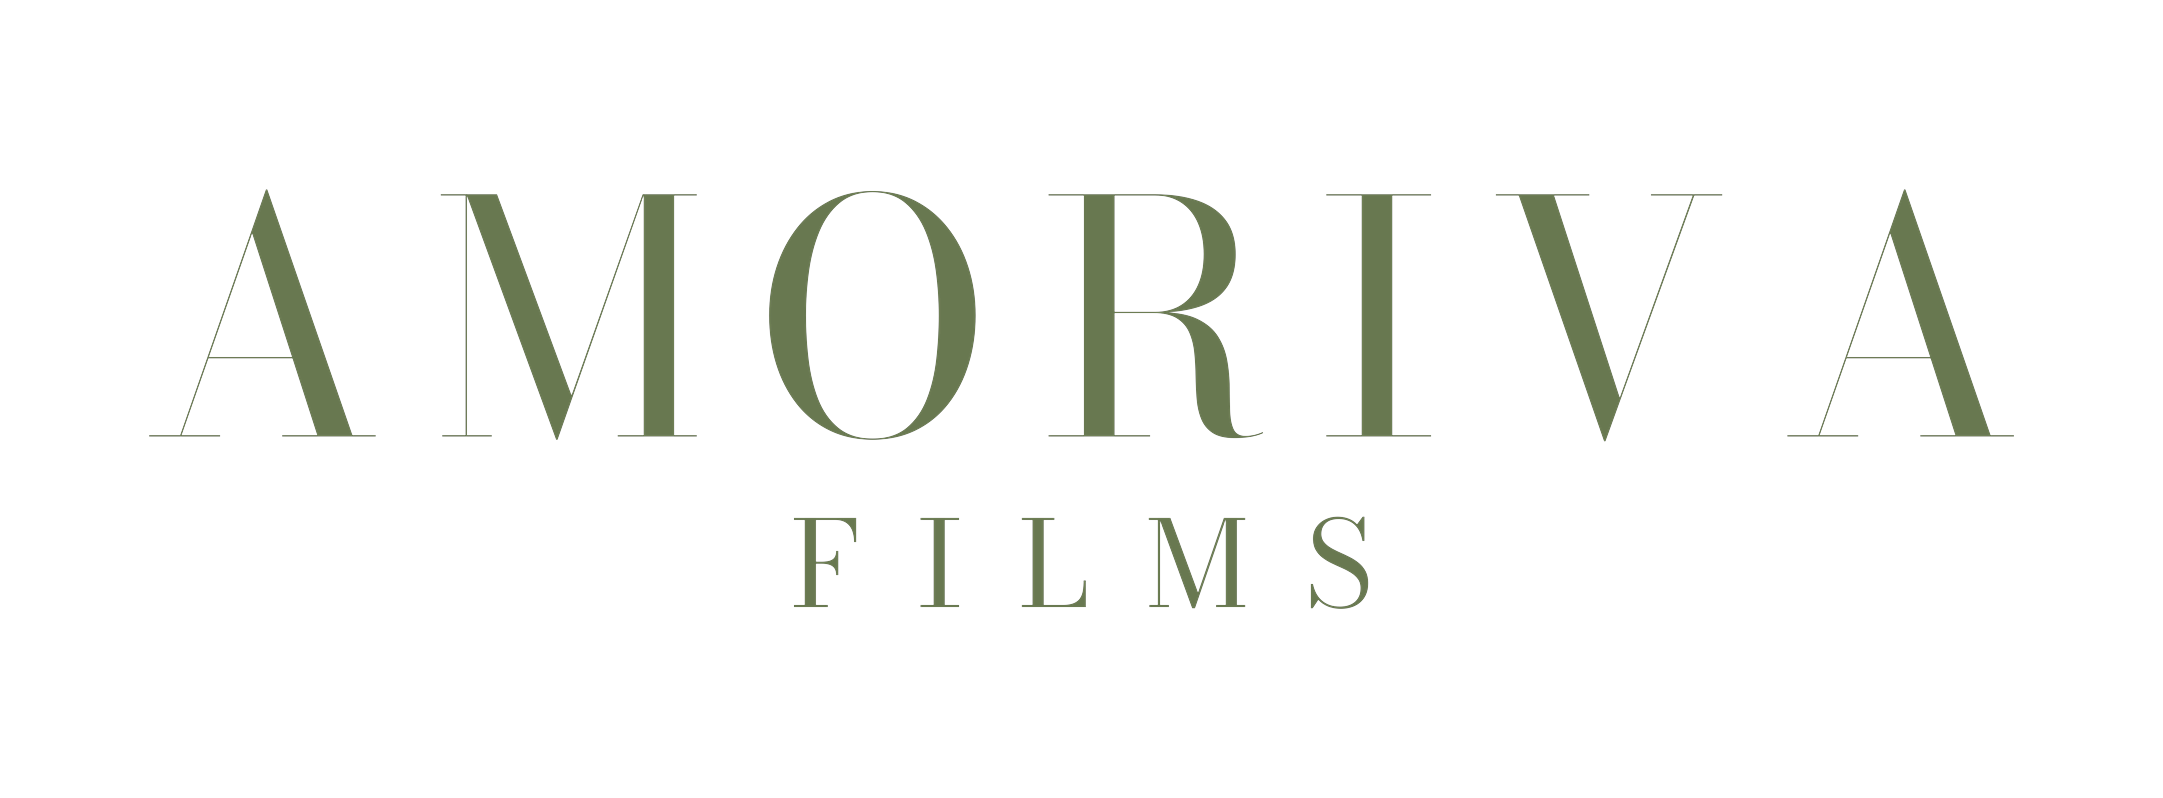
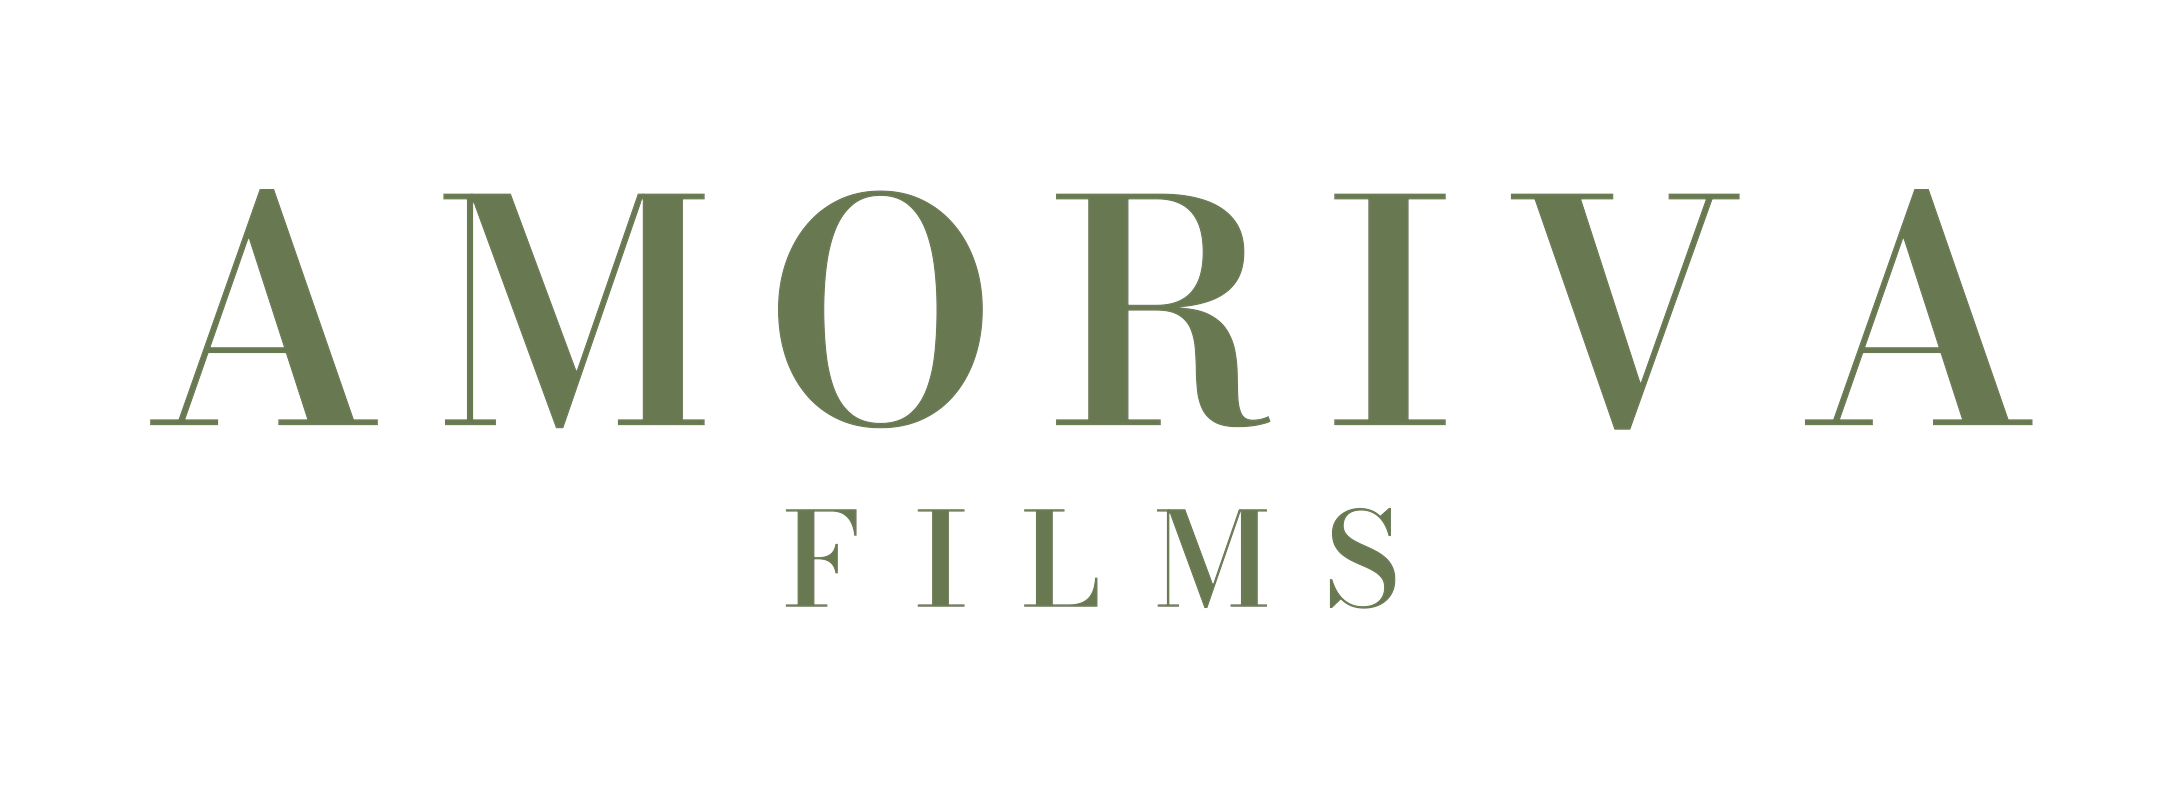
Wortmarke dicker setzen, sie war schlecht lesbar
Nevio: "mach es ein bisschen dicker, man kann es schlecht lesen".
Zwei Ursachen, beide nachgemessen:

1. Gewicht 400 mit automatischer optischer Groesse. Die Bodoni duennt
   ihre Haarstriche aus, je groesser die optische Groesse gewaehlt wird,
   und automatisch waehlt der Browser danach - bei 18 px Versalien blieb
   vom Querstrich des A fast nichts uebrig. Jetzt Gewicht 600 und opsz
   fest auf 11, der Lesetext-Schnitt mit den kraeftigsten Strichen.
   Dieselbe Falle wie bei den Schrittziffern einen Tag vorher.

2. FILMS stand auf 82 Prozent Deckung. Gemessen auf dem hellen Papier:
   3,02 zu 1 bei 6,8 px. Die Deckung ist raus, beide Zeilen liegen jetzt
   bei 4,62 zu 1, und FILMS waechst von 0.2 auf 0.23 der Markenhoehe.
   Der Groessenunterschied trennt die Zeilen deutlich genug.

Die Datei fuer die Suchmaschinen-Daten ist mit demselben Gewicht neu
gesetzt, sonst laufen Datei und Satz auseinander. Dabei aufgefallen:
scripts/marke.py gab das Gewicht beim Aufruf fest mit, ein Ueberschreiben
von aussen lief wirkungslos durch - jetzt steht es in der Funktion.

diff --git a/components/Wortmarke.jsx b/components/Wortmarke.jsx
@@ -30,7 +30,21 @@ export default function Wortmarke({ hoehe = 34, farbe = 'currentColor' }) {
         gap: hoehe * 0.09,
         color: farbe,
         fontFamily: 'var(--font-display), Georgia, serif',
-        fontWeight: 400,
+        /* Nevio am 26.09.2026: "mach es ein bisschen dicker, man kann es
+           schlecht lesen". Zwei Ursachen, beide nachgemessen:
+
+           1. Gewicht 400 plus automatische optische Groesse. Die Bodoni
+              duennt ihre Haarstriche aus, je groesser die optische
+              Groesse gewaehlt wird - und automatisch waehlt der Browser
+              danach. Bei 18 px Versalien bleibt vom Querstrich des A
+              fast nichts uebrig. Jetzt Gewicht 600 und opsz fest auf 11,
+              das ist der Lesetext-Schnitt mit den kraeftigsten Strichen.
+           2. FILMS stand auf 82 Prozent Deckung. Gemessen auf dem hellen
+              Papier: 3,02 zu 1 bei 6,8 px. Die Deckung ist raus, damit
+              liegen beide Zeilen bei 4,62 zu 1. Der Groessenunterschied
+              trennt die Zeilen ohnehin deutlich genug. */
+        fontWeight: 600,
+        fontVariationSettings: "'opsz' 11",
         lineHeight: 1,
         /* Versalien, wie im Musterblatt gezeigt. Der weite Abstand
            zwischen den Buchstaben ist das eigentliche Erkennungszeichen
@@ -50,10 +64,9 @@ export default function Wortmarke({ hoehe = 34, farbe = 'currentColor' }) {
         Amoriva
       </span>
       <span style={{
-        fontSize: hoehe * 0.2,
+        fontSize: hoehe * 0.23,
         letterSpacing: `${SPERRE_KLEIN}em`,
         textIndent: `${SPERRE_KLEIN}em`,
-        opacity: 0.82,
       }}>
         Films
       </span>

diff --git a/scripts/marke.py b/scripts/marke.py
@@ -26,8 +26,12 @@ def wortmarke(hoehe, farbe, rand=0.12):
     """Zweizeilig: AMORIVA gross, FILMS klein und weit gesperrt darunter."""
     UEB = 4          # Ueberabtastung, danach verkleinern
     H = hoehe * UEB
-    gross  = schrift(int(H * 0.42), 400, 36)
-    klein  = schrift(int(H * 0.155), 400, 11)
+    # Gewicht 600 und kleine optische Groesse, genau wie der gesetzte
+    # Text auf der Seite. Die Bodoni duennt ihre Haarstriche aus, je
+    # groesser die optische Groesse gewaehlt wird - bei 400/36 war die
+    # Marke kaum zu lesen (Nevio, 26.09.2026).
+    gross  = schrift(int(H * 0.42), 600, 11)
+    klein  = schrift(int(H * 0.177), 600, 11)
     sp_g   = H * 0.42 * 0.16
     sp_k   = H * 0.155 * 0.46
 
